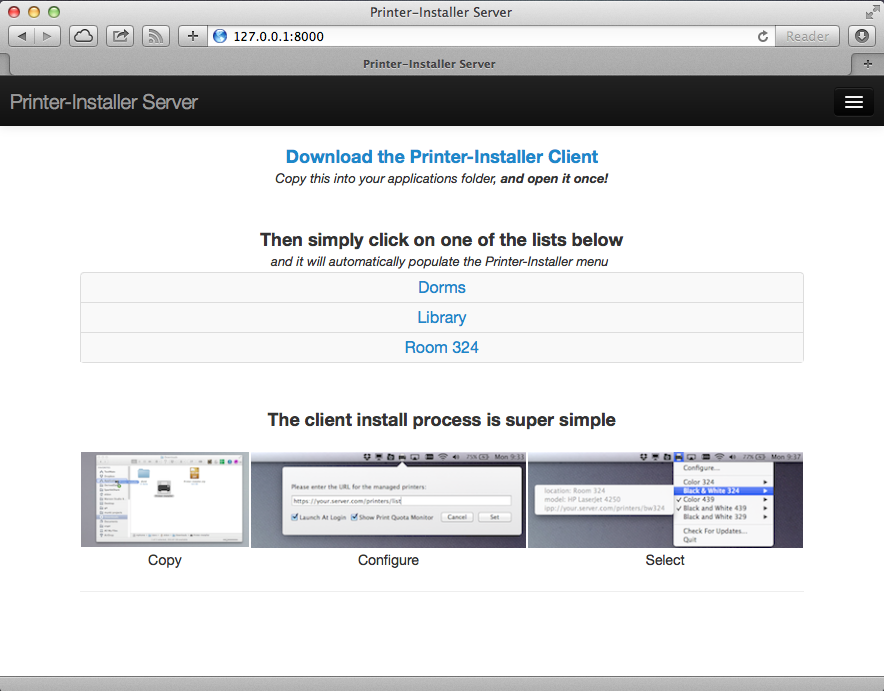
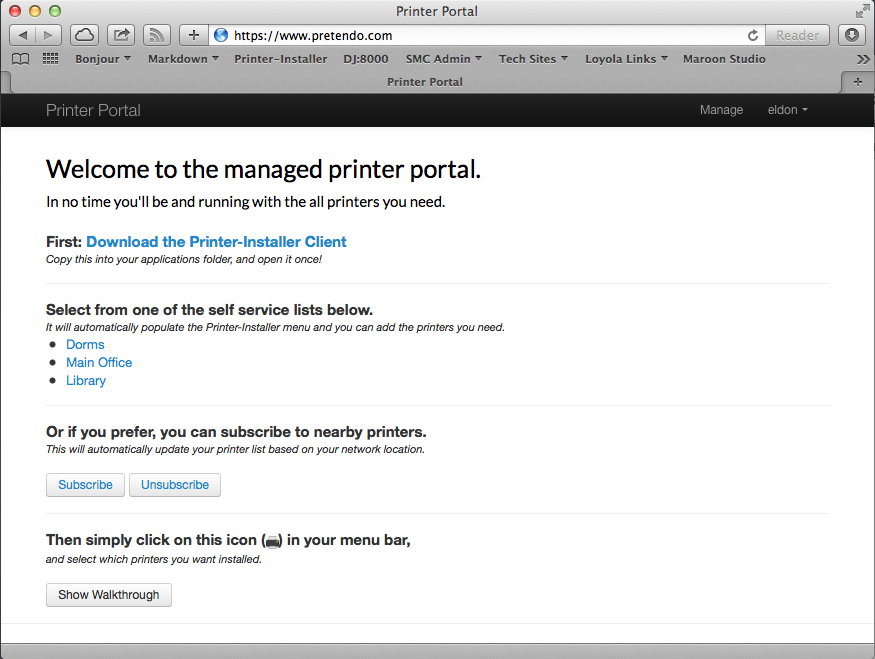
more tweaks

Changed region(s): [[0.0, 0.0, 1.0, 0.607], [0.0309, 0.5766, 0.9257, 0.9105], [0.0, 0.9712, 1.0, 1.0]]

diff --git a/printerinstaller/templates/base.html b/printerinstaller/templates/base.html
@@ -1,10 +1,12 @@
 
 {% load i18n %}
+{% load staticfiles %}
+
 <!DOCTYPE html>
 <html lang="en">
   <head>
     <meta charset="utf-8">
-    <title>{% block title %}Printer-Installer Server{% endblock %}</title>
+    <title>{% block title %}Printer Portal{% endblock %}</title>
     <meta name="viewport" content="width=device-width, initial-scale=1.0">
     <meta name="description" content="">
     <meta name="author" content="">
@@ -37,7 +39,7 @@
             <span class="icon-bar"></span>
             <span class="icon-bar"></span>
           </a>
-          <a class="brand" href="{% url 'index_view' %}">Printer-Installer Server</a>
+          <a class="brand" href="{% url 'index_view' %}">Printer Portal</a>
           <div class="nav-collapse collapse">
             <ul class="nav pull-right">
 				{% block nav %}
@@ -90,10 +92,11 @@
       </div>
 {% endblock %}
       <hr>
-
       <footer>
+        <div class='container'></div>
+        <font color='gray'><center></center></font>
+        </div>
       </footer>
-
     </div> <!-- /container -->
 
     <!-- Le javascript

diff --git a/printers/templates/printers/forms/base_form.html b/printers/templates/printers/forms/base_form.html
@@ -7,8 +7,8 @@
 
 {% load bootstrap_toolkit %}
 {% block content %}
-<form action="" method="post">{% csrf_token %}
+<form action="" method="post" enctype="multipart/form-data">{% csrf_token %}
     {{ form|as_bootstrap }}
-<p><button type="submit" class="btn primary">Save</button></p>
+<p><button type="submit" class="btn btn-default">Save</button></p>
 </form>
 {% endblock %}

diff --git a/printers/views.py b/printers/views.py
@@ -116,7 +116,7 @@ class ManageView(ProtectedView):
 class ModelModifyBase(FormView):
     model = None
     success_url = '/manage'
-    template_name = 'printers/base_form.html'
+    template_name = 'printers/forms/base_form.html'
     form_class = None
 
     def __init__(self, *args, **kwargs):
@@ -209,14 +209,14 @@ def toggle_printerlist_public(request, id):
     return redirect('manage')
 
 
-###############################################
-## This is the request that returns the plist #
-## for the Printer-Installer.app it should    #
-## be the only area that requires no login    #
-###############################################
+#############################################################################
+## This is the request that returns the plist for the Printer-Installer.app #
+##  it should  be the only area that requires no login                      #
+############################################################################
 def get_printer_list(request, name):
     '''display the xml plist for the client'''
     printer_list_object = get_object_or_404(PrinterList, name=name)    
+    
     p_dict = generate_printer_dict_from_list(request, printer_list_object)
     
     plist = writePlistToString(p_dict)
@@ -228,9 +228,10 @@ def get_subscription_list(request):
 
     client_ip = get_client_ip(request)
     printer_list_object = SubscriptionPrinterList.instance_for_ip(client_ip)
-    p_dict = generate_printer_dict_from_list(request, printer_list_object)
     
+    p_dict = generate_printer_dict_from_list(request, printer_list_object)
     p_dict['subnet'] = printer_list_object.subnet
+
     plist = writePlistToString(p_dict)
 
     return HttpResponse(plist, content_type='application/xml')

diff --git a/sparkle/utils.py b/sparkle/utils.py
@@ -2,15 +2,17 @@ import os, subprocess
 
 def get_dsa_signature(filename, private_key):
     '''get the dsa signature for a file using the supplied private key'''
+    
     process1 = subprocess.Popen(['openssl', 'dgst', '-sha1', '-binary', filename], \
         stdout=subprocess.PIPE)
-    
+
     if process1.wait() != 0:
         return None
 
     process2 = subprocess.Popen(['openssl', 'dgst', '-dss1', '-sign', \
         private_key], stdin=process1.stdout, stdout=subprocess.PIPE)
-    if process1.wait() != 0:
+
+    if process2.wait() != 0:
         return None
 
     process3 = subprocess.Popen(['openssl', 'enc', '-base64'], \

diff --git a/printers/utils.py b/printers/utils.py
@@ -47,8 +47,8 @@ def generate_printer_dict_from_list(request, list_object):
     if settings.SERVE_FILES and Version.objects.all():
         _site_info = site_info(request)
         update_server = os.path.join(_site_info['root'], \
-                                    _site_info['subpath'], \
-                                    'sparkle/Printer-Installer/appcast.xml',)
+                                     _site_info['subpath'], \
+                                     'sparkle/Printer-Installer/appcast.xml',)
     else:
         update_server = settings.GITHUB_APPCAST_URL
 

diff --git a/printerinstaller/utils.py b/printerinstaller/utils.py
@@ -39,6 +39,9 @@ def site_info(request):
     _site_info = {'protocol': request.is_secure() and 'https' or 'http'}
     _site_info['port'] = request.META.get('SERVER_PORT')
     _site_info['subpath'] = request.META.get('SCRIPT_NAME')
+    
+    # Getting the site domain and name is more secure if we can get it
+    # from Site._meta so use that first, and fall back using the request.
     if Site._meta.installed:
         _site_info['domain'] = Site.objects.get_current().domain
         _site_info['name'] = Site.objects.get_current().name

diff --git a/docs/quick_start.md b/docs/quick_start.md
@@ -1,16 +1,16 @@
 ##Quick Start
 
-###if you don't have virturalenv install it
+###If you don't have virturalenv install it
 
 	sudo easy_install virturalenv
 	
-###then create your virtural env
+###Then create your virtural env
 	
 	cd /path/to/www/
 	virtualenv printerinstaller_env
 
 
-###make a user  and group
+###Make a user  and group
 *Get the last user and group in the 400's,  if this command returns nothing than you can set the UniqueID and GroupID to 400*
 *This next part is a guide, and will not work if you have a user that is 499, user your best judgment
 
@@ -30,15 +30,15 @@
 	sudo dscl . create /Users/printerinstaller PrimaryGroupID "$GROUP_ID"
   
   
-###fix permissions then switch to new user	
+###Fix permissions then switch to new user	
 	sudo chown -R printerinstaller printerinstaller_env
 	sudo su ; su printerinstaller
 	  
-###turn on the virtual env
+###Turn on the virtual env
 	cd printerinstaller_env
     source bin/activate
 	
-###insatll printerinstaller_server
+###Insatll printerinstaller_server
 	
 	git clone https://github.com/eahrold/printerinstaller-server.git printerinstaller
 
@@ -46,11 +46,11 @@
 
 	cd printerinstaller 
 
-###install prerequistis
+###Install prerequistis
 
 	pip install -r setup/requirements.txt
 	
-### configure the app settings
+### Configure the app settings
 
 	cd printerinstaller
 	cp printerinstaller/settings_template.py cp printerinstaller/settings.py
@@ -63,9 +63,19 @@ During initial testing, in order to server static files,  you'll want to set
 	
 	RUNNING_ON_APACHE=False
 
-in the settings.py.  If ultimatley running via WSGI module on apache change it back
+In the settings.py.  If ultimatley running via WSGI module on apache change it back
 
 	RUNNING_ON_APACHE=True
+
+#####There are a few other settings you may wish to change.
+* if you want to server PPD files
+	```
+	SERVE_FILES=True
+	```
+* if you want to host custom builds of the Printer-Installer client app	
+	```
+	HOST_SPARKLE_UPDATES=True
+	```
 
 </br>
 ### Additional OS X setup
